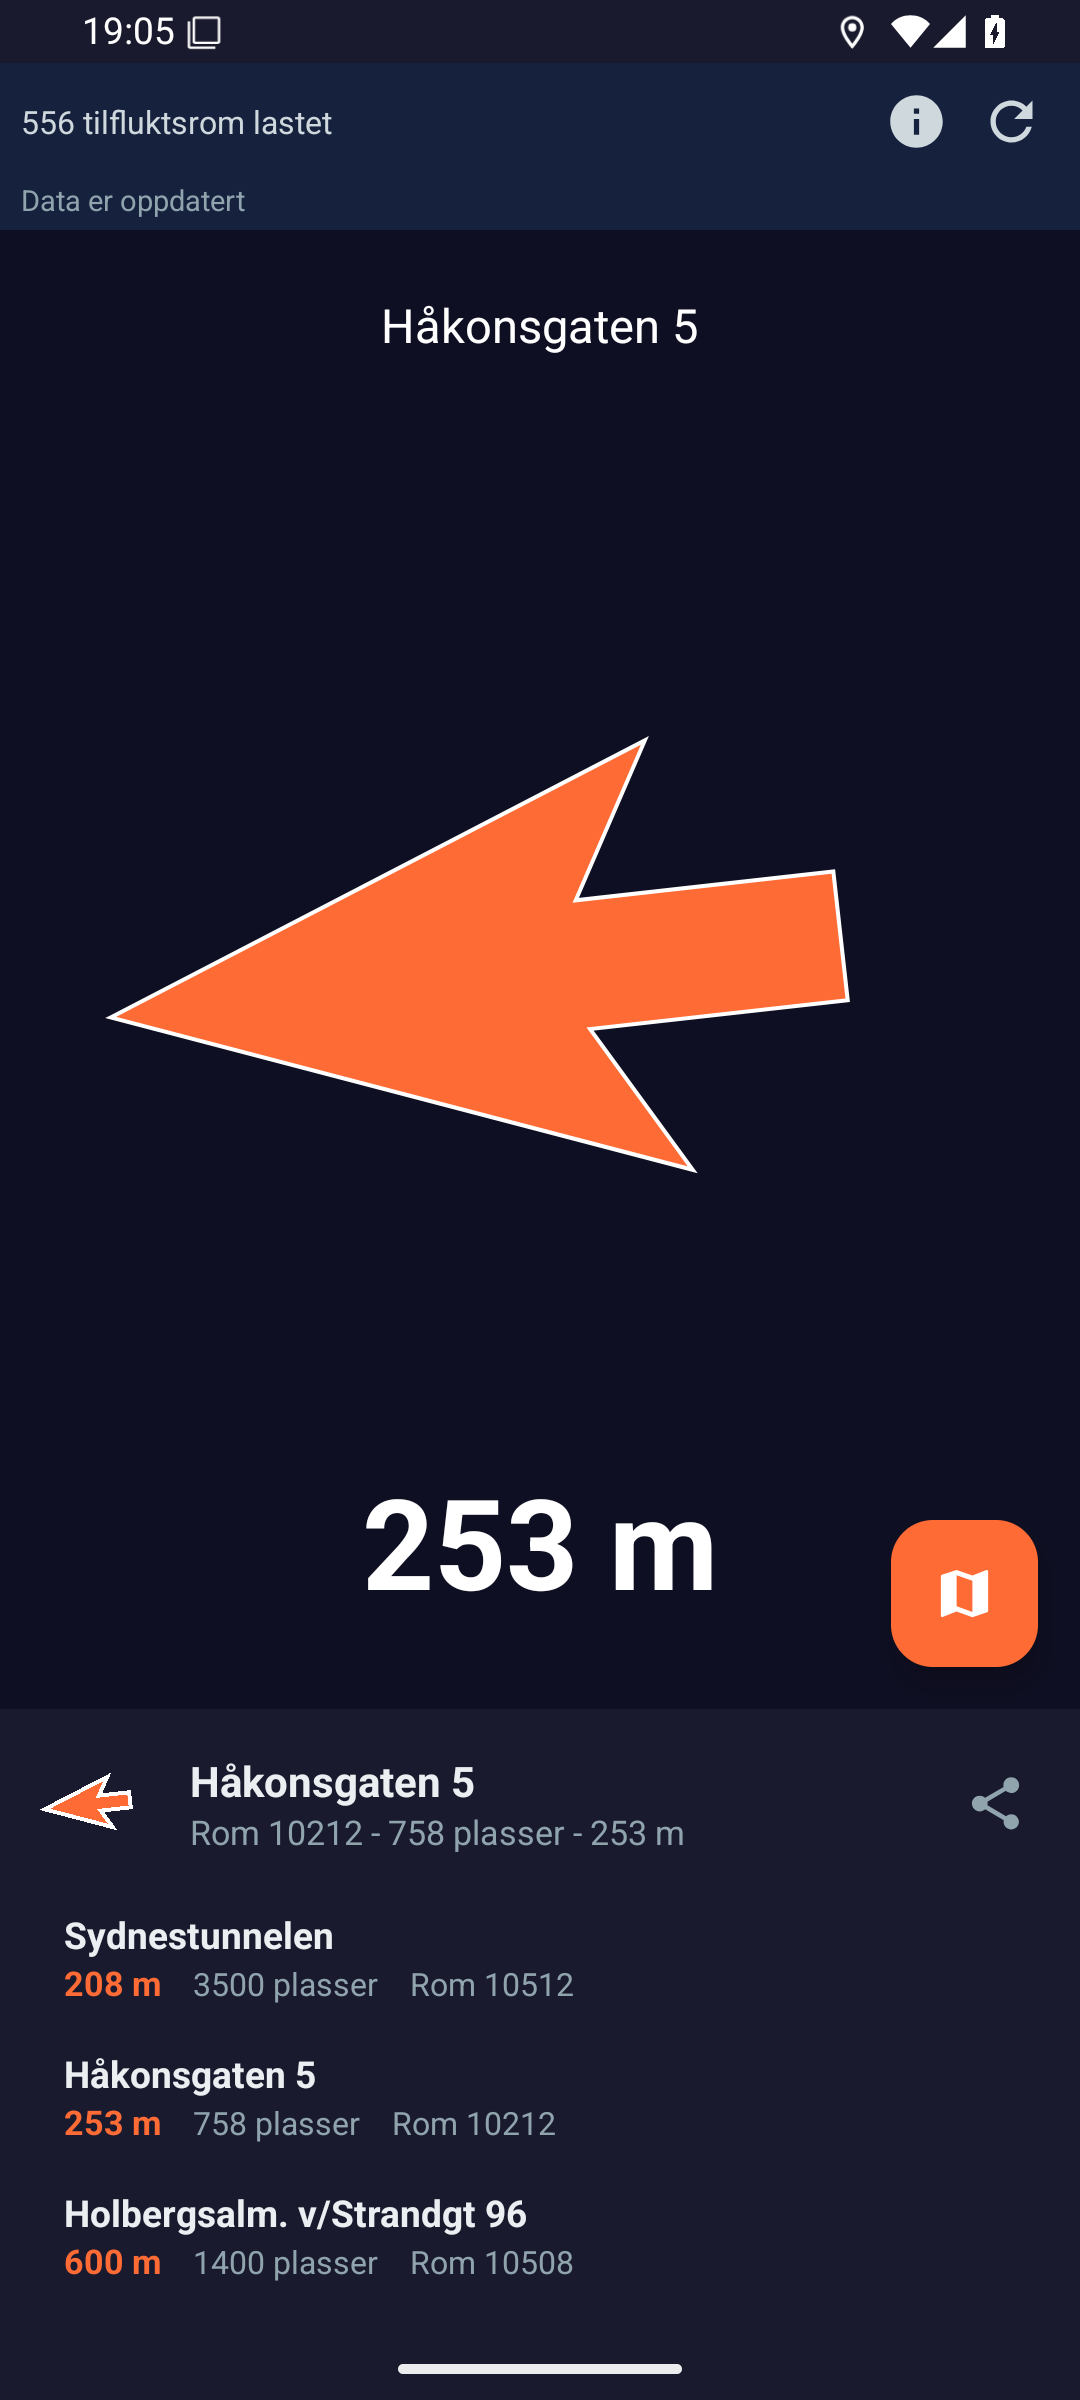
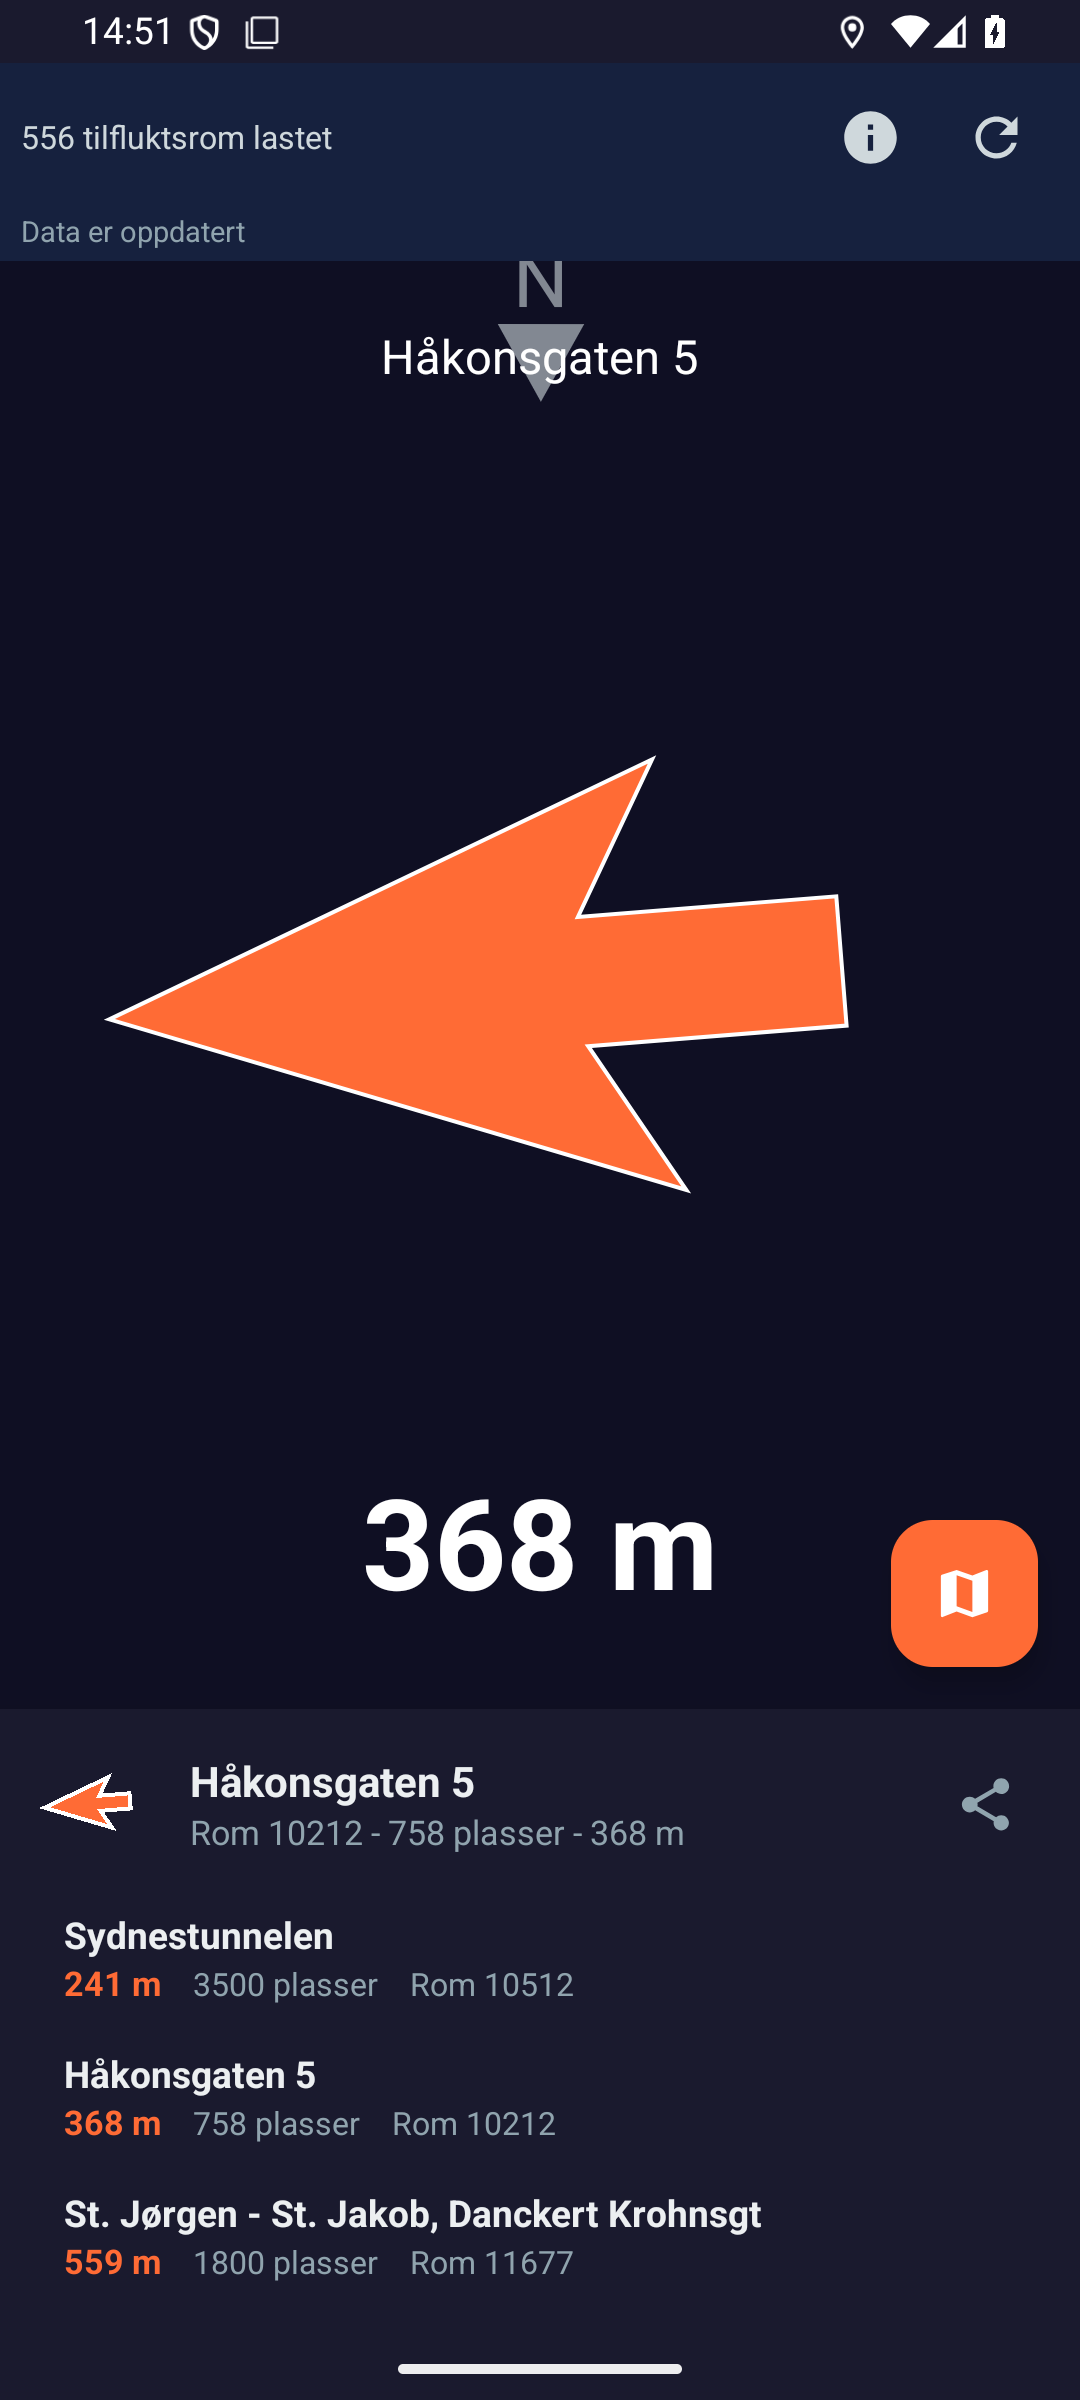
Oppdater skjermbilete og README med nye funksjonar
Nye skjermbilete frå emulator (Bergen sentrum):
- Kartvisning, valt tilfluktsrom, kompass med nordindikator,
  sivilforsvarsinfo, og ny om-side med personvernerklæring

README oppdatert:
- Femte skjermbilete (om-side) lagt til
- Nordindikator og tilgjengelegheit nemnde i funksjonslista
- Datakjelde retta: DSB, distribuert via Geonorge
- Sikkerheitsavsnittet utfylt med CSP, 24t GPS-utløp, User-Agent
- Personvernavsnittet utvida

diff --git a/README.md b/README.md
@@ -3,30 +3,34 @@
 Finn nærmeste offentlige tilfluktsrom i Norge. Appen er bygd for nødsituasjoner og fungerer uten internett etter første gangs bruk.
 
 <p align="center">
-  <img src="fastlane/metadata/android/nb-NO/images/phoneScreenshots/1_map_view.png" width="200" alt="Kartvisning med tilfluktsrom i Bergen sentrum" />
-  <img src="fastlane/metadata/android/nb-NO/images/phoneScreenshots/2_shelter_selected.png" width="200" alt="Valgt tilfluktsrom med avstand og kapasitet" />
-  <img src="fastlane/metadata/android/nb-NO/images/phoneScreenshots/3_compass_view.png" width="200" alt="Kompassnavigasjon mot tilfluktsrom" />
-  <img src="fastlane/metadata/android/nb-NO/images/phoneScreenshots/4_civil_defense_info.png" width="200" alt="Sivilforsvarsinfo: hva du skal gjøre om alarmen går" />
+  <img src="fastlane/metadata/android/nb-NO/images/phoneScreenshots/1_map_view.png" width="180" alt="Kartvisning med tilfluktsrom i Bergen sentrum" />
+  <img src="fastlane/metadata/android/nb-NO/images/phoneScreenshots/2_shelter_selected.png" width="180" alt="Valgt tilfluktsrom med avstand og retningspil" />
+  <img src="fastlane/metadata/android/nb-NO/images/phoneScreenshots/3_compass_view.png" width="180" alt="Kompassnavigasjon med nordindikator" />
+  <img src="fastlane/metadata/android/nb-NO/images/phoneScreenshots/4_civil_defense_info.png" width="180" alt="Sivilforsvarsinfo: hva du skal gjøre om alarmen går" />
+  <img src="fastlane/metadata/android/nb-NO/images/phoneScreenshots/5_about.png" width="180" alt="Om-side med personvernerklæring" />
 </p>
 
 ## Slik fungerer appen
 
 **Kartvisning** — Appen viser alle 556 offentlige tilfluktsrom i Norge på et OpenStreetMap-kart. De tre nærmeste tilfluktsrommene vises i bunnen med avstand, kapasitet og romnummer. Trykk på en kartmarkering eller et listeelement for å velge et tilfluktsrom.
 
-**Kompassnavigasjon** — Trykk på kompassknappen for å bytte til retningspil-visning. En stor pil peker mot det valgte tilfluktsrommet, med avstand i meter eller kilometer. Fungerer uten internett — bare GPS og kompassensor.
+**Kompassnavigasjon** — Trykk på kompassknappen for å bytte til retningspil-visning. En stor pil peker mot det valgte tilfluktsrommet, med avstand i meter eller kilometer. En diskret nordindikator vises på kanten slik at du kan verifisere kompasskalibreringen. Fungerer uten internett — bare GPS og kompassensor.
 
 **Sivilforsvarsinfo** — Trykk på info-knappen for å se trinn-for-trinn-veiledning fra DSB om hva du skal gjøre når alarmen går: viktig melding-signal, flyalarm, finn dekning, lytt til NRK på DAB-radio, og faren over.
+
+**Om og personvern** — Appen samler ikke inn persondata. Alt skjer lokalt på enheten. Se om-siden i appen for fullstendig personvernerklæring, datakilder og opphavsrett.
 
 ## Funksjoner
 
 - **Finn nærmeste tilfluktsrom** — viser de tre nærmeste med avstand og kapasitet
-- **Kompassnavigasjon** — retningspil som peker mot valgt tilfluktsrom
+- **Kompassnavigasjon** — retningspil som peker mot valgt tilfluktsrom, med nordindikator
 - **Frakoblet kart** — kartfliser lagres automatisk for bruk uten nett
 - **Velg fritt** — trykk på en markering i kartet for å navigere dit
 - **Del tilfluktsrom** — send adresse, kapasitet og koordinater til andre
 - **Sivilforsvarsinfo** — veiledning fra DSB om hva du skal gjøre når alarmen går
 - **Hjemmeskjerm-widget** — viser nærmeste tilfluktsrom uten å åpne appen
 - **Flerspråklig** — engelsk, bokmål og nynorsk
+- **Tilgjengelighet** — TalkBack-støtte, fokusindikatorer og tilstrekkelig kontrast
 
 ## Plattformer
 
@@ -52,7 +56,7 @@ Progressiv nettapp med Vite, TypeScript og Leaflet. Kan installeres på alle enh
 
 ## Datakilde
 
-Tilfluktsromdata lastes ned fra [Geonorge](https://www.geonorge.no/) som GeoJSON i UTM33N-projeksjon (EPSG:25833). Koordinatene konverteres til WGS84 (bredde-/lengdegrad) for visning i kartet.
+Tilfluktsromdata er offentlig informasjon fra [DSB](https://www.dsb.no/) (Direktoratet for samfunnssikkerhet og beredskap), distribuert via [Geonorge](https://www.geonorge.no/) som GeoJSON i UTM33N-projeksjon (EPSG:25833). Koordinatene konverteres til WGS84 (bredde-/lengdegrad) for visning i kartet.
 
 Datasettet inneholder ca. 556 offentlige tilfluktsrom med adresse, romnummer og kapasitet (antall plasser).
 
@@ -65,7 +69,8 @@ tilfluktsrom/
 │       ├── java/.../
 │       │   ├── data/       # Room-database, nedlasting, GeoJSON-parser
 │       │   ├── location/   # GPS, nærmeste tilfluktsrom
-│       │   ├── ui/         # Retningspil, liste-adapter
+│       │   ├── ui/         # Retningspil, liste-adapter, om-dialog
+│       │   ├── widget/     # Hjemmeskjerm-widget
 │       │   └── util/       # UTM→WGS84-konvertering, avstandsberegning
 │       └── res/            # Layout, strenger (en/nb/nn), ikoner
 ├── pwa/                    # Nettapp (TypeScript)
@@ -90,14 +95,16 @@ Appen er designet etter «offline-first»-prinsippet:
 
 ## Sikkerhet
 
-- All nettverkstrafikk går over HTTPS
+- All nettverkstrafikk går over HTTPS (klartekst er deaktivert)
+- Content Security Policy (CSP) i PWA-versjonen
 - Tilfluktsromdata valideres ved parsing (koordinater innenfor Norge, gyldige felt)
 - Databaseoppdateringer er atomiske (transaksjon) for å unngå datatap
-- Ingen persondata lagres — kun tilfluktsromdata og kartfliser
+- Lagret GPS-posisjon utløper automatisk etter 24 timer
+- Egendefinert User-Agent forhindrer enhetsfingeravtrykk
 
 ## Personvern
 
-Appen samler ikke inn persondata og har ingen analyse- eller sporingstjenester. Posisjonsdata brukes bare lokalt på enheten for å finne nærmeste tilfluktsrom. Se [PRIVACY.md](PRIVACY.md) for fullstendig personvernerklæring.
+Appen samler ikke inn, sender eller deler noen personopplysninger. Det finnes ingen analyse, sporing eller tredjepartstjenester. GPS-posisjonen brukes bare lokalt på enheten for å finne nærmeste tilfluktsrom, og sendes aldri til noen server. Se om-siden i appen for fullstendig personvernerklæring.
 
 ## Opphavsrett
 
